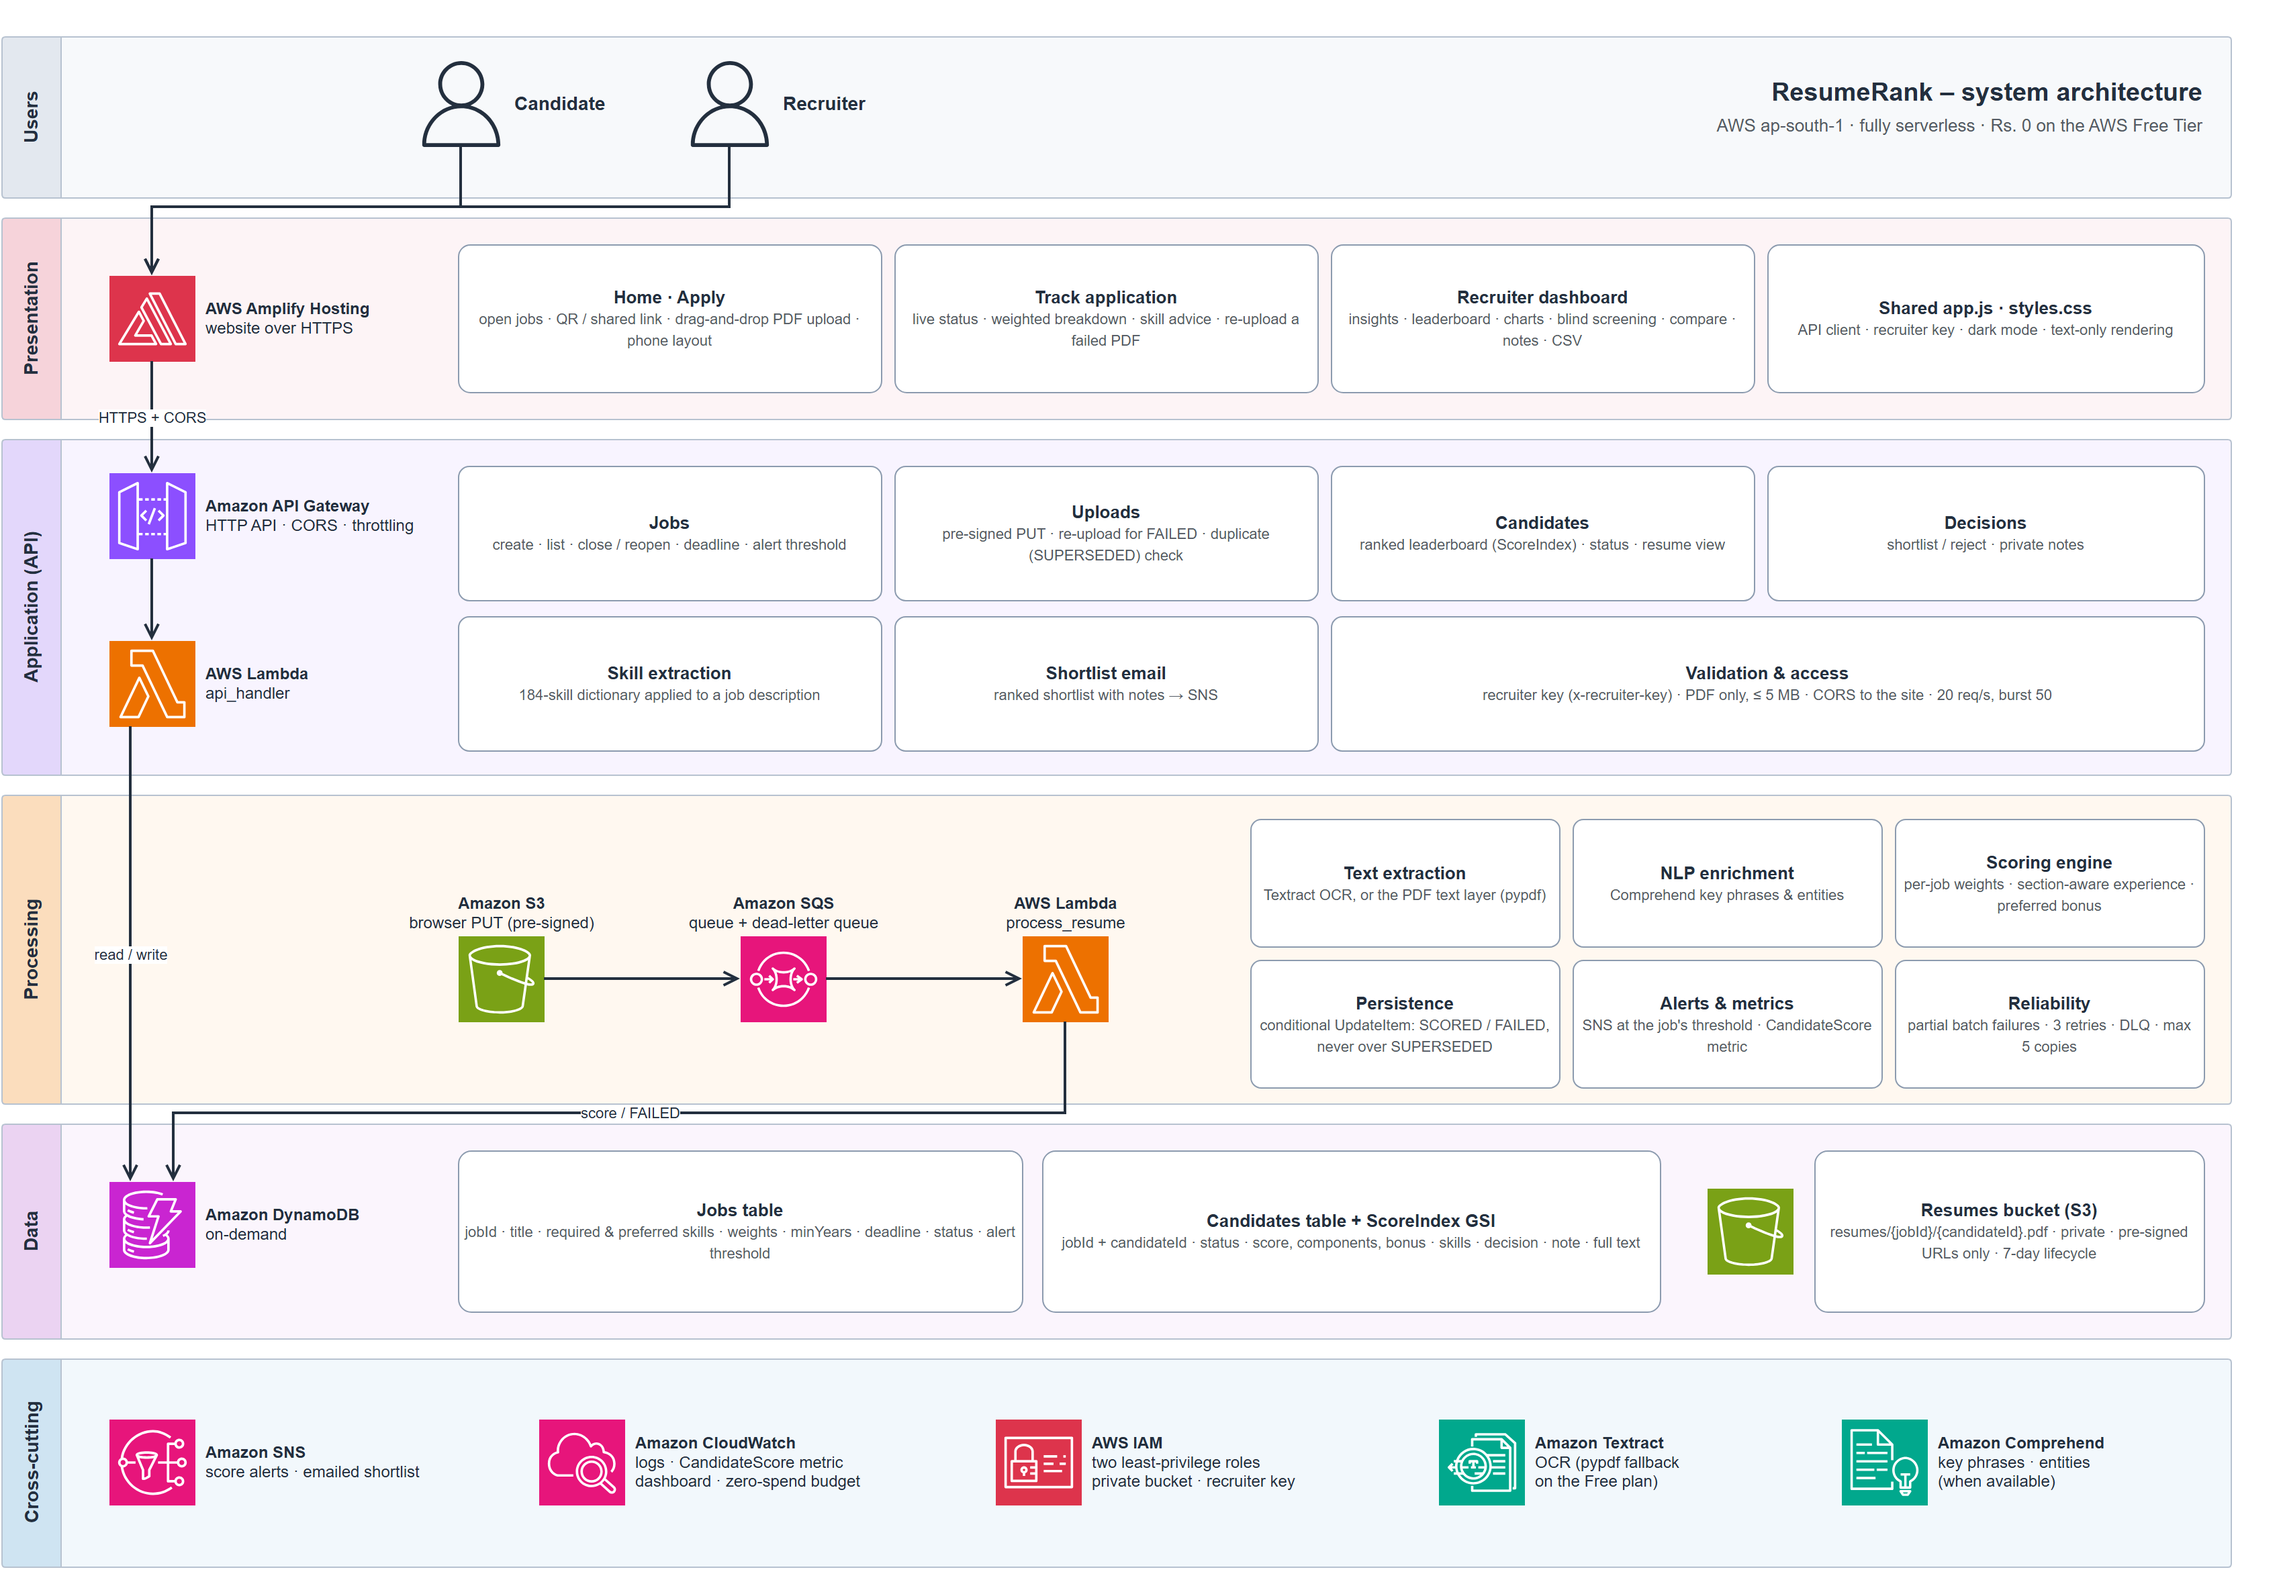
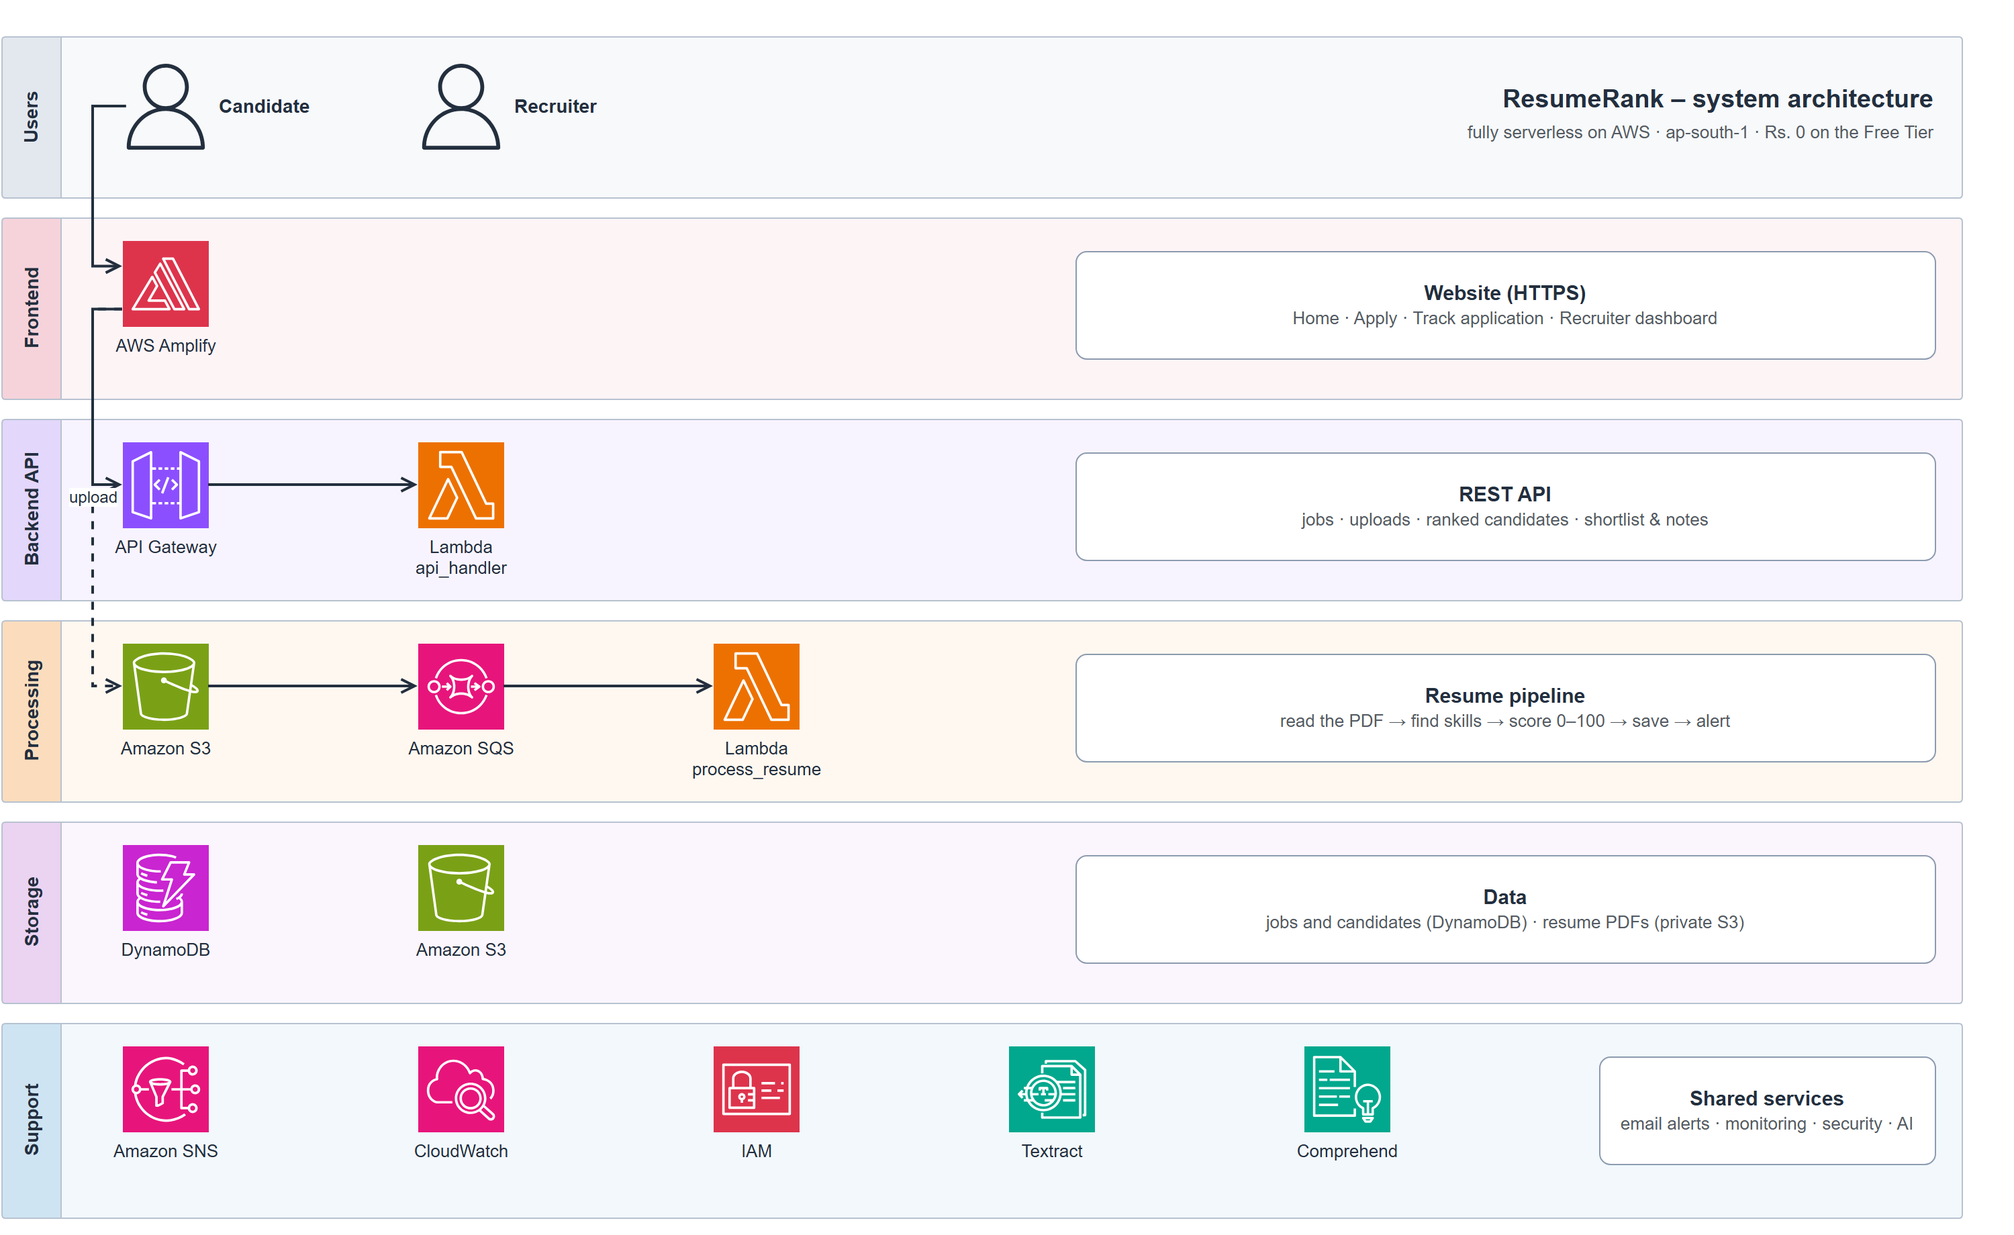
simplify system architecture diagram

diff --git a/scripts/draw_system_architecture.py b/scripts/draw_system_architecture.py
@@ -1,11 +1,11 @@
-"""Draw the ResumeRank *system* architecture: the layers of the system and what lives in each.
+"""Draw the ResumeRank *system* architecture: a simple layered view of the system.
 
     python scripts/draw_system_architecture.py
 
 Writes docs/system-architecture.drawio (editable in app.diagrams.net, official AWS icons) and
 docs/system-architecture.png (rendered with the same headless-browser helper as
 draw_architecture.py). docs/architecture.png shows the numbered request and event flow; this
-diagram shows the layered structure and the responsibilities inside each layer.
+diagram shows the layers of the system at a glance.
 """
 
 import os
@@ -16,85 +16,56 @@ sys.path.insert(0, os.path.dirname(os.path.abspath(__file__)))
 import draw_architecture as base  # noqa: E402  (reuses its PNG renderer and colours)
 
 ROOT = os.path.dirname(os.path.dirname(os.path.abspath(__file__)))
-W, H = 1700, 1180
+W, H = 1500, 920
 ICON = 64
+LANE = 88            # x of the arrow lane between the layer names and the icons
 
-# layer bands, drawn as swimlanes with the name in a vertical strip: (name, y, height, header, body)
+# layers, drawn as swimlanes with the name in a vertical strip: (name, y, height, header, body)
 LAYERS = [
     ("Users", 20, 120, "#E3E8EF", "#F7F9FB"),
-    ("Presentation", 155, 150, "#F6D3DA", "#FDF4F6"),
-    ("Application (API)", 320, 250, "#E3D7FB", "#F8F4FF"),
-    ("Processing", 585, 230, "#FBDDBD", "#FFF8F0"),
-    ("Data", 830, 160, "#EBD3F2", "#FBF5FD"),
-    ("Cross-cutting", 1005, 155, "#CFE4F2", "#F2F8FC"),
+    ("Frontend", 155, 135, "#F6D3DA", "#FDF4F6"),
+    ("Backend API", 305, 135, "#E3D7FB", "#F8F4FF"),
+    ("Processing", 455, 135, "#FBDDBD", "#FFF8F0"),
+    ("Storage", 605, 135, "#EBD3F2", "#FBF5FD"),
+    ("Support", 755, 145, "#CFE4F2", "#F2F8FC"),
 ]
 
-# AWS icons: id: (x, y, label, colour key, resIcon, label side "right" | "top" | "none")
+# AWS icons: id: (x, y, label, colour key, resIcon); labels sit below the icon
 ICONS = {
-    "amplify": (100, 198, "<b>AWS Amplify Hosting</b><br>website over HTTPS", "frontend", "amplify", "right"),
-    "apigw":   (100, 345, "<b>Amazon API Gateway</b><br>HTTP API · CORS · throttling", "network", "api_gateway", "right"),
-    "api":     (100, 470, "<b>AWS Lambda</b><br>api_handler", "compute", "lambda", "right"),
-    "s3in":    (360, 690, "<b>Amazon S3</b><br>browser PUT (pre-signed)", "storage", "s3", "top"),
-    "sqs":     (570, 690, "<b>Amazon SQS</b><br>queue + dead-letter queue", "integration", "sqs", "top"),
-    "proc":    (780, 690, "<b>AWS Lambda</b><br>process_resume", "compute", "lambda", "top"),
-    "ddb":     (100, 873, "<b>Amazon DynamoDB</b><br>on-demand", "database", "dynamodb", "right"),
-    "s3data":  (1290, 878, "", "storage", "s3", "none"),
-    "sns":     (100, 1050, "<b>Amazon SNS</b><br>score alerts · emailed shortlist", "integration", "sns", "right"),
-    "cw":      (420, 1050, "<b>Amazon CloudWatch</b><br>logs · CandidateScore metric<br>dashboard · zero-spend budget", "management", "cloudwatch_2", "right"),
-    "iam":     (760, 1050, "<b>AWS IAM</b><br>two least-privilege roles<br>private bucket · recruiter key", "security", "identity_and_access_management", "right"),
-    "textract": (1090, 1050, "<b>Amazon Textract</b><br>OCR (pypdf fallback<br>on the Free plan)", "ml", "textract", "right"),
-    "comp":    (1390, 1050, "<b>Amazon Comprehend</b><br>key phrases · entities<br>(when available)", "ml", "comprehend", "right"),
+    "amplify":  (110, 172, "AWS Amplify", "frontend", "amplify"),
+    "apigw":    (110, 322, "API Gateway", "network", "api_gateway"),
+    "api":      (330, 322, "Lambda<br>api_handler", "compute", "lambda"),
+    "s3in":     (110, 472, "Amazon S3", "storage", "s3"),
+    "sqs":      (330, 472, "Amazon SQS", "integration", "sqs"),
+    "proc":     (550, 472, "Lambda<br>process_resume", "compute", "lambda"),
+    "ddb":      (110, 622, "DynamoDB", "database", "dynamodb"),
+    "s3data":   (330, 622, "Amazon S3", "storage", "s3"),
+    "sns":      (110, 772, "Amazon SNS", "integration", "sns"),
+    "cw":       (330, 772, "CloudWatch", "management", "cloudwatch_2"),
+    "iam":      (550, 772, "IAM", "security", "identity_and_access_management"),
+    "textract": (770, 772, "Textract", "ml", "textract"),
+    "comp":     (990, 772, "Comprehend", "ml", "comprehend"),
 }
-PEOPLE = {
-    "cand": (330, 38, "Candidate"),
-    "rec":  (530, 38, "Recruiter"),
-}
+PEOPLE = {"cand": (110, 40, "Candidate"), "rec": (330, 40, "Recruiter")}
 
-# responsibility boxes: (x, y, w, h, title, detail)
-BOXES = [
-    # presentation
-    (360, 175, 315, 110, "Home · Apply", "open jobs · QR / shared link · drag-and-drop PDF upload · phone layout"),
-    (685, 175, 315, 110, "Track application", "live status · weighted breakdown · skill advice · re-upload a failed PDF"),
-    (1010, 175, 315, 110, "Recruiter dashboard", "insights · leaderboard · charts · blind screening · compare · notes · CSV"),
-    (1335, 175, 325, 110, "Shared app.js · styles.css", "API client · recruiter key · dark mode · text-only rendering"),
-    # application
-    (360, 340, 315, 100, "Jobs", "create · list · close / reopen · deadline · alert threshold"),
-    (685, 340, 315, 100, "Uploads", "pre-signed PUT · re-upload for FAILED · duplicate (SUPERSEDED) check"),
-    (1010, 340, 315, 100, "Candidates", "ranked leaderboard (ScoreIndex) · status · resume view"),
-    (1335, 340, 325, 100, "Decisions", "shortlist / reject · private notes"),
-    (360, 452, 315, 100, "Skill extraction", "184-skill dictionary applied to a job description"),
-    (685, 452, 315, 100, "Shortlist email", "ranked shortlist with notes → SNS"),
-    (1010, 452, 650, 100, "Validation & access", "recruiter key (x-recruiter-key) · PDF only, ≤ 5 MB · CORS to the site · 20 req/s, burst 50"),
-    # processing
-    (950, 603, 230, 95, "Text extraction", "Textract OCR, or the PDF text layer (pypdf)"),
-    (1190, 603, 230, 95, "NLP enrichment", "Comprehend key phrases & entities"),
-    (1430, 603, 230, 95, "Scoring engine", "per-job weights · section-aware experience · preferred bonus"),
-    (950, 708, 230, 95, "Persistence", "conditional UpdateItem: SCORED / FAILED, never over SUPERSEDED"),
-    (1190, 708, 230, 95, "Alerts & metrics", "SNS at the job's threshold · CandidateScore metric"),
-    (1430, 708, 230, 95, "Reliability", "partial batch failures · 3 retries · DLQ · max 5 copies"),
-    # data
-    (360, 850, 420, 120, "Jobs table", "jobId · title · required & preferred skills · weights · minYears · deadline · status · alert threshold"),
-    (795, 850, 460, 120, "Candidates table + ScoreIndex GSI", "jobId + candidateId · status · score, components, bonus · skills · decision · note · full text"),
-    (1370, 850, 290, 120, "Resumes bucket (S3)", "resumes/{jobId}/{candidateId}.pdf · private · pre-signed URLs only · 7-day lifecycle"),
+# one plain-language summary per layer: (x, y, w, h, title, detail)
+SUMMARIES = [
+    (820, 180, 640, 80, "Website (HTTPS)", "Home · Apply · Track application · Recruiter dashboard"),
+    (820, 330, 640, 80, "REST API", "jobs · uploads · ranked candidates · shortlist & notes"),
+    (820, 480, 640, 80, "Resume pipeline", "read the PDF → find skills → score 0–100 → save → alert"),
+    (820, 630, 640, 80, "Data", "jobs and candidates (DynamoDB) · resume PDFs (private S3)"),
+    (1210, 780, 250, 80, "Shared services", "email alerts · monitoring · security · AI"),
 ]
 
-# arrows: (source, target, exit, entry, waypoints, label)
+# arrows: (source, target, exit, entry, waypoints, label, dashed)
 EDGES = [
-    ("cand", "amplify", (0.5, 1), (0.5, 0), [(362, 147), (132, 147)], ""),
-    ("rec", "amplify", (0.5, 1), (0.5, 0), [(562, 147), (132, 147)], ""),
-    ("amplify", "apigw", (0.5, 1), (0.5, 0), [], "HTTPS + CORS"),
-    ("apigw", "api", (0.5, 1), (0.5, 0), [], ""),
-    ("api", "ddb", (0.25, 1), (0.25, 0), [], "read / write"),
-    ("s3in", "sqs", (1, 0.5), (0, 0.5), [], ""),
-    ("sqs", "proc", (1, 0.5), (0, 0.5), [], ""),
-    ("proc", "ddb", (0.5, 1), (0.75, 0), [(812, 822), (148, 822)], "score / FAILED"),
+    ("cand", "amplify", (0, 0.5), (0, 0.3), [(LANE, 72), (LANE, 191)], "", False),
+    ("amplify", "apigw", (0, 0.8), (0, 0.5), [(LANE, 223), (LANE, 354)], "", False),
+    ("apigw", "api", (1, 0.5), (0, 0.5), [], "", False),
+    ("amplify", "s3in", (0, 0.8), (0, 0.5), [(LANE, 223), (LANE, 504)], "upload", True),
+    ("s3in", "sqs", (1, 0.5), (0, 0.5), [], "", False),
+    ("sqs", "proc", (1, 0.5), (0, 0.5), [], "", False),
 ]
-
-LABEL_STYLE = {
-    "right": "labelPosition=right;verticalLabelPosition=middle;align=left;verticalAlign=middle;spacingLeft=6;",
-    "top": "labelPosition=center;verticalLabelPosition=top;align=center;verticalAlign=bottom;",
-    "none": "",
-}
 
 
 def build_xml():
@@ -112,16 +83,16 @@ def build_xml():
             f'fontColor=#232F3E;rounded=1;arcSize=2;" vertex="1" parent="1">'
             f'<mxGeometry x="20" y="{y}" width="{W - 40}" height="{h}" as="geometry"/></mxCell>')
 
-    for x, y, w, h, title, detail in BOXES:
-        label = f"<b>{escape(title)}</b><br><font style='font-size:11px' color='#545B64'>{escape(detail)}</font>"
-        add(f'<mxCell id="{{id}}" value="{escape(label)}" style="rounded=1;arcSize=8;whiteSpace=wrap;html=1;fillColor=#FFFFFF;'
-            f'strokeColor=#8C9BAF;fontSize=13;fontColor=#232F3E;spacing=6;" vertex="1" parent="1">'
+    for x, y, w, h, title, detail in SUMMARIES:
+        label = f"<b>{escape(title)}</b><br><font style='font-size:13px' color='#545B64'>{escape(detail)}</font>"
+        add(f'<mxCell id="{{id}}" value="{escape(label)}" style="rounded=1;arcSize=10;whiteSpace=wrap;html=1;fillColor=#FFFFFF;'
+            f'strokeColor=#8C9BAF;fontSize=15;fontColor=#232F3E;spacing=6;" vertex="1" parent="1">'
             f'<mxGeometry x="{x}" y="{y}" width="{w}" height="{h}" as="geometry"/></mxCell>')
 
     ids = {}
-    for key, (x, y, label, cat, icon, side) in ICONS.items():
+    for key, (x, y, label, cat, icon) in ICONS.items():
         style = (f"sketch=0;outlineConnect=0;fontColor=#232F3E;gradientColor=none;fillColor={base.COLOUR[cat]};strokeColor=#ffffff;"
-                 f"dashed=0;html=1;fontSize=12;aspect=fixed;whiteSpace=nowrap;{LABEL_STYLE[side]}"
+                 f"dashed=0;verticalLabelPosition=bottom;verticalAlign=top;align=center;html=1;fontSize=13;aspect=fixed;"
                  f"shape=mxgraph.aws4.resourceIcon;resIcon=mxgraph.aws4.{icon};")
         ids[key] = add(f'<mxCell id="{{id}}" value="{escape(label)}" style="{style}" vertex="1" parent="1">'
                        f'<mxGeometry x="{x}" y="{y}" width="{ICON}" height="{ICON}" as="geometry"/></mxCell>')
@@ -132,10 +103,11 @@ def build_xml():
         ids[key] = add(f'<mxCell id="{{id}}" value="{escape(label)}" style="{style}" vertex="1" parent="1">'
                        f'<mxGeometry x="{x}" y="{y}" width="64" height="64" as="geometry"/></mxCell>')
 
-    for src, dst, (ex, ey), (nx, ny), pts, label in EDGES:
+    for src, dst, (ex, ey), (nx, ny), pts, label, dashed in EDGES:
         style = (f"edgeStyle=orthogonalEdgeStyle;rounded=0;html=1;endArrow=open;endFill=0;endSize=8;strokeWidth=2;"
-                 f"strokeColor=#232F3E;fontSize=11;fontColor=#232F3E;labelBackgroundColor=#ffffff;"
-                 f"exitX={ex};exitY={ey};exitDx=0;exitDy=0;entryX={nx};entryY={ny};entryDx=0;entryDy=0;")
+                 f"strokeColor=#232F3E;fontSize=12;fontColor=#232F3E;labelBackgroundColor=#ffffff;"
+                 f"exitX={ex};exitY={ey};exitDx=0;exitDy=0;entryX={nx};entryY={ny};entryDx=0;entryDy=0;"
+                 f"{'dashed=1;' if dashed else ''}")
         points = "".join(f'<mxPoint x="{px}" y="{py}"/>' for px, py in pts)
         geo = (f'<mxGeometry relative="1" as="geometry"><Array as="points">{points}</Array></mxGeometry>'
                if pts else '<mxGeometry relative="1" as="geometry"/>')
@@ -143,10 +115,10 @@ def build_xml():
             f'source="{ids[src]}" target="{ids[dst]}">{geo}</mxCell>')
 
     add('<mxCell id="{id}" value="&lt;b&gt;ResumeRank – system architecture&lt;/b&gt;&lt;br&gt;&lt;font style=&quot;font-size:13px&quot; '
-        'color=&quot;#545B64&quot;&gt;AWS ap-south-1 · fully serverless · Rs. 0 on the AWS Free Tier&lt;/font&gt;" '
+        'color=&quot;#545B64&quot;&gt;fully serverless on AWS · ap-south-1 · Rs. 0 on the Free Tier&lt;/font&gt;" '
         'style="text;html=1;fontSize=19;fontColor=#232F3E;align=right;verticalAlign=middle;" vertex="1" parent="1">'
-        '<mxGeometry x="900" y="45" width="760" height="56" as="geometry"/></mxCell>')
-    return ('<mxGraphModel dx="1700" dy="1180" grid="1" gridSize="10" guides="1" tooltips="1" connect="1" arrows="1" '
+        f'<mxGeometry x="760" y="50" width="{W - 800}" height="56" as="geometry"/></mxCell>')
+    return ('<mxGraphModel dx="1500" dy="920" grid="1" gridSize="10" guides="1" tooltips="1" connect="1" arrows="1" '
             f'fold="1" page="1" pageScale="1" pageWidth="{W}" pageHeight="{H}" math="0" shadow="0">'
             '<root><mxCell id="0"/><mxCell id="1" parent="0"/>' + "".join(cells) + "</root></mxGraphModel>")
 
